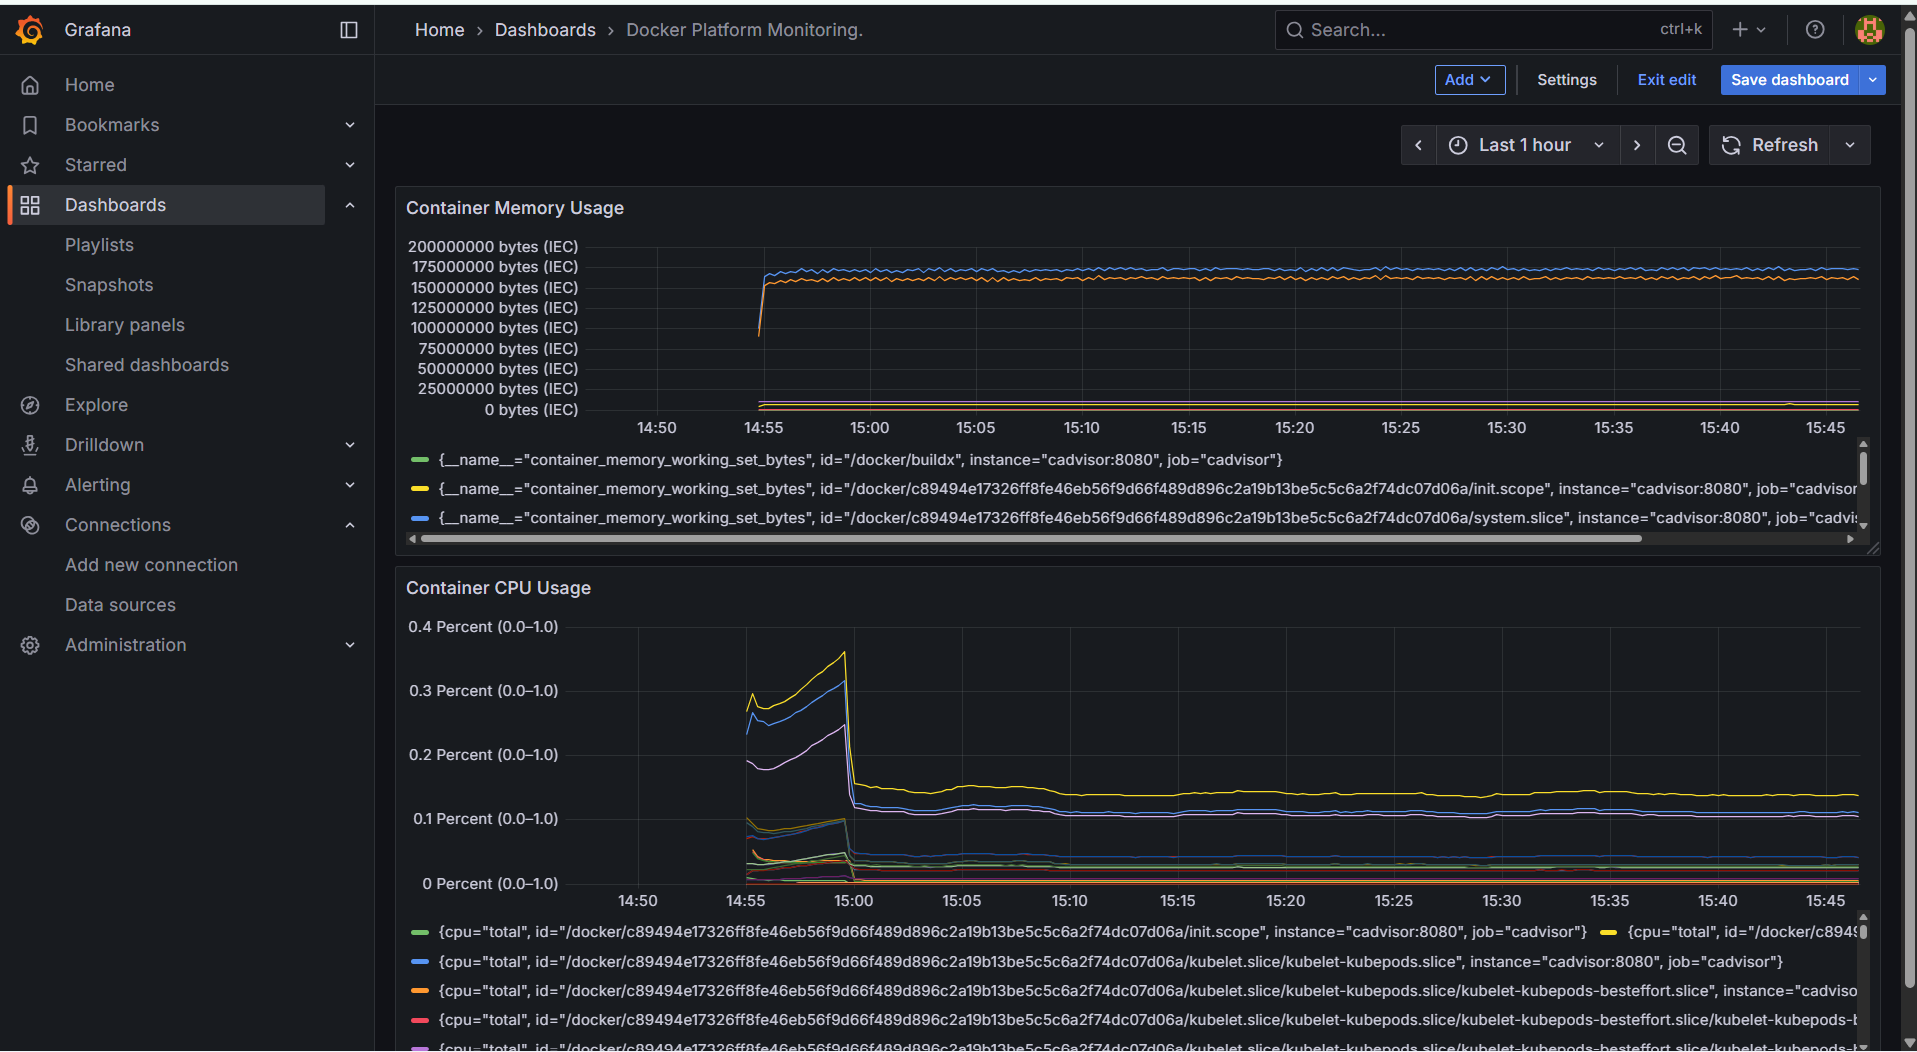
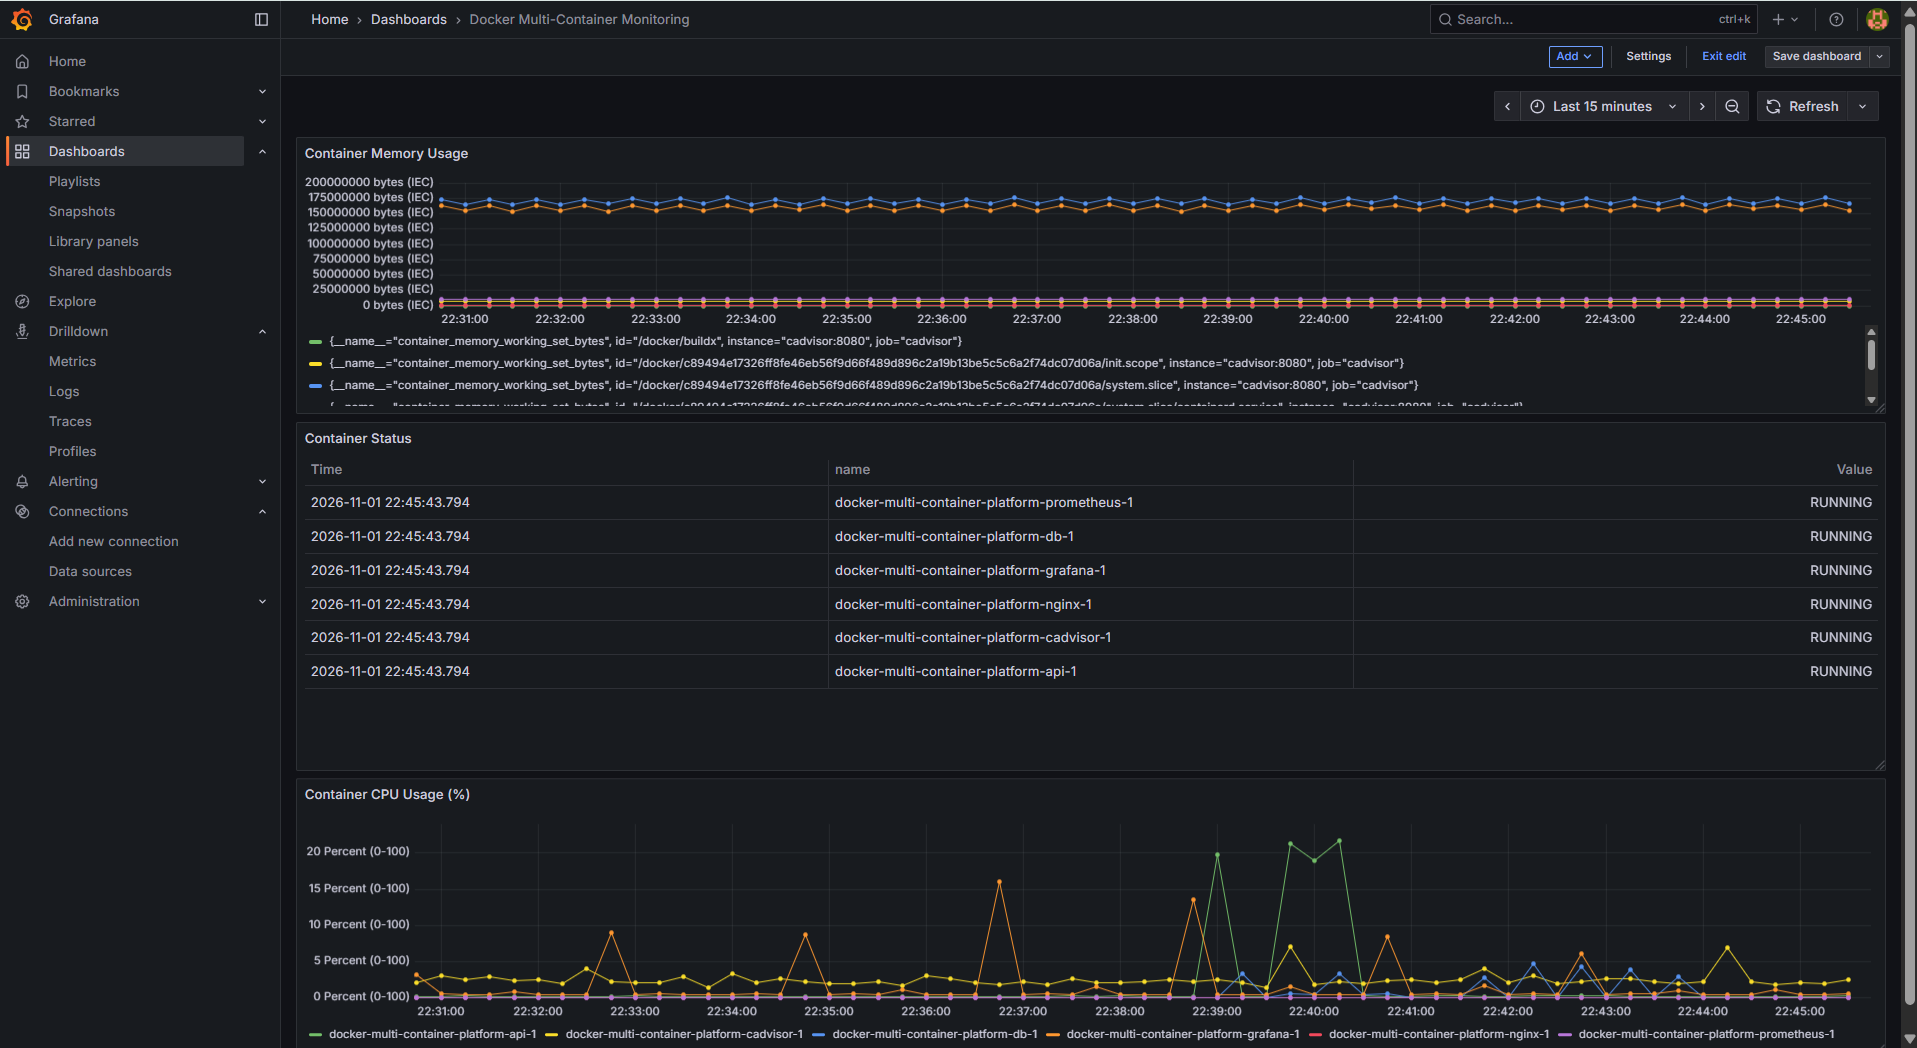
Add Docker stats exporter and update Grafana monitoring

diff --git a/tools/docker-stats-exporter/exporter.py b/tools/docker-stats-exporter/exporter.py
@@ -1,0 +1,195 @@
+
+import json
+import logging
+import re
+import subprocess
+from http.server import BaseHTTPRequestHandler, ThreadingHTTPServer
+
+
+HOST = "0.0.0.0"
+PORT = 9713
+DOCKER_TIMEOUT = 15
+
+logging.basicConfig(
+    level=logging.INFO,
+    format="%(asctime)s %(levelname)s %(message)s"
+)
+
+
+def get_container_stats():
+    """Read live container statistics from Docker CLI."""
+    try:
+        result = subprocess.run(
+            [
+                "docker",
+                "stats",
+                "--no-stream",
+                "--format",
+                "{{json .}}"
+            ],
+            capture_output=True,
+            text=True,
+            check=True,
+            timeout=DOCKER_TIMEOUT
+        )
+
+    except subprocess.TimeoutExpired as error:
+        raise RuntimeError("Docker stats command timed out") from error
+
+    except FileNotFoundError as error:
+        raise RuntimeError("Docker CLI was not found in PATH") from error
+
+    except subprocess.CalledProcessError as error:
+        message = error.stderr.strip() or "Unknown Docker CLI error"
+        raise RuntimeError(message) from error
+
+    containers = []
+
+    for line in result.stdout.splitlines():
+        if not line.strip():
+            continue
+
+        try:
+            containers.append(json.loads(line))
+        except json.JSONDecodeError as error:
+            raise RuntimeError(
+                f"Invalid Docker stats JSON: {line}"
+            ) from error
+
+    return containers
+
+
+def to_bytes(value):
+    """Convert Docker memory values into bytes."""
+    match = re.fullmatch(
+        r"\s*([0-9]+(?:\.[0-9]+)?)\s*([A-Za-z]+)\s*",
+        value
+    )
+
+    if not match:
+        raise ValueError(f"Invalid memory value: {value}")
+
+    number = float(match.group(1))
+    unit = match.group(2).upper()
+
+    units = {
+        "B": 1,
+        "KB": 1000,
+        "MB": 1000 ** 2,
+        "GB": 1000 ** 3,
+        "TB": 1000 ** 4,
+        "KIB": 1024,
+        "MIB": 1024 ** 2,
+        "GIB": 1024 ** 3,
+        "TIB": 1024 ** 4,
+    }
+
+    if unit not in units:
+        raise ValueError(f"Unsupported memory unit: {unit}")
+
+    return number * units[unit]
+
+
+def escape_label(value):
+    """Escape special characters for Prometheus labels."""
+    return (
+        str(value)
+        .replace("\\", "\\\\")
+        .replace("\n", "\\n")
+        .replace('"', '\\"')
+    )
+
+
+def generate_metrics():
+    containers = get_container_stats()
+
+    metrics = [
+        "# HELP docker_container_cpu_percent Container CPU usage percentage",
+        "# TYPE docker_container_cpu_percent gauge",
+        "# HELP docker_container_memory_usage_bytes Container memory usage in bytes",
+        "# TYPE docker_container_memory_usage_bytes gauge",
+        "# HELP docker_container_memory_limit_bytes Container memory limit in bytes",
+        "# TYPE docker_container_memory_limit_bytes gauge",
+        "# HELP docker_container_up Whether the container is running",
+        "# TYPE docker_container_up gauge",
+    ]
+
+    for container in containers:
+        name = escape_label(container.get("Name", "unknown"))
+
+        cpu_value = container.get("CPUPerc", "0%")
+        cpu = float(cpu_value.replace("%", "").strip())
+
+        memory_usage, memory_limit = container["MemUsage"].split("/", 1)
+
+        labels = f'name="{name}"'
+
+        metrics.extend([
+            f"docker_container_cpu_percent{{{labels}}} {cpu}",
+            (
+                f"docker_container_memory_usage_bytes{{{labels}}} "
+                f"{to_bytes(memory_usage)}"
+            ),
+            (
+                f"docker_container_memory_limit_bytes{{{labels}}} "
+                f"{to_bytes(memory_limit)}"
+            ),
+            f"docker_container_up{{{labels}}} 1",
+        ])
+
+    return "\n".join(metrics) + "\n"
+
+
+class MetricsHandler(BaseHTTPRequestHandler):
+
+    def do_GET(self):
+        if self.path == "/health":
+            self.send_response(200)
+            self.send_header("Content-Type", "text/plain")
+            self.end_headers()
+            self.wfile.write(b"healthy\n")
+            return
+
+        if self.path != "/metrics":
+            self.send_response(404)
+            self.end_headers()
+            return
+
+        try:
+            output = generate_metrics().encode("utf-8")
+
+            self.send_response(200)
+            self.send_header(
+                "Content-Type",
+                "text/plain; version=0.0.4; charset=utf-8"
+            )
+            self.send_header("Content-Length", str(len(output)))
+            self.end_headers()
+            self.wfile.write(output)
+
+        except Exception:
+            logging.exception("Failed to generate Docker metrics")
+            self.send_response(500)
+            self.send_header("Content-Type", "text/plain")
+            self.end_headers()
+            self.wfile.write(b"Failed to generate Docker metrics\n")
+
+    def log_message(self, format, *args):
+        logging.info("%s - %s", self.address_string(), format % args)
+
+
+if __name__ == "__main__":
+    server = ThreadingHTTPServer((HOST, PORT), MetricsHandler)
+
+    logging.info(
+        "Docker Stats Exporter running on http://%s:%s/metrics",
+        HOST,
+        PORT
+    )
+
+    try:
+        server.serve_forever()
+    except KeyboardInterrupt:
+        logging.info("Exporter shutting down")
+    finally:
+        server.server_close()
